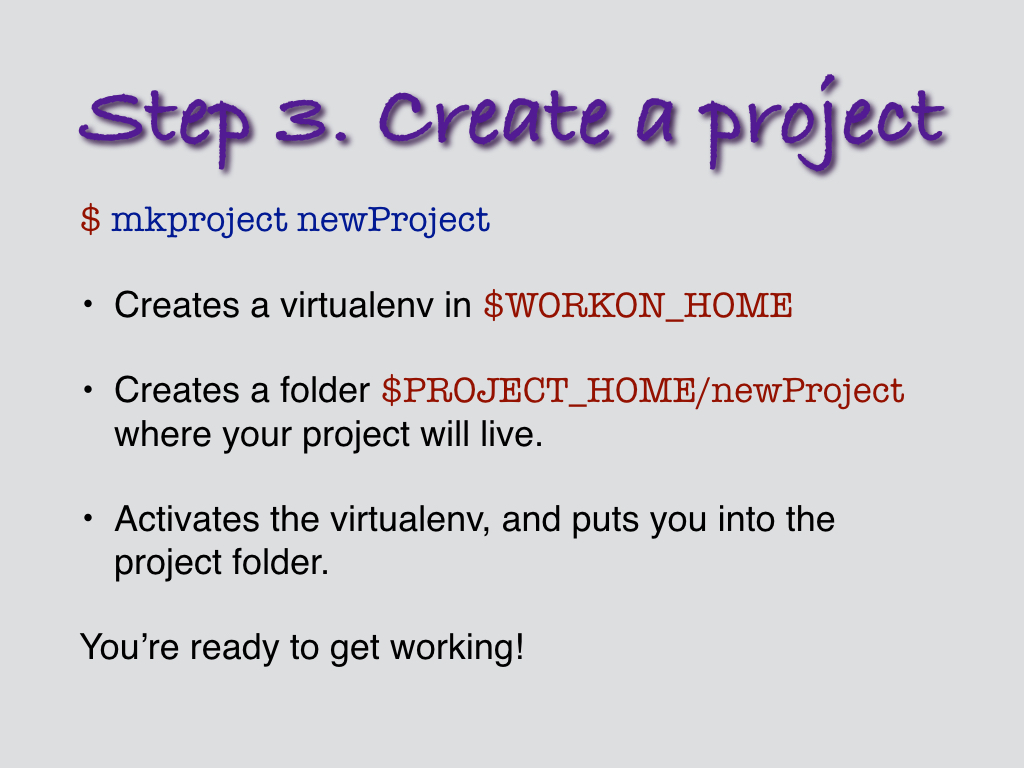
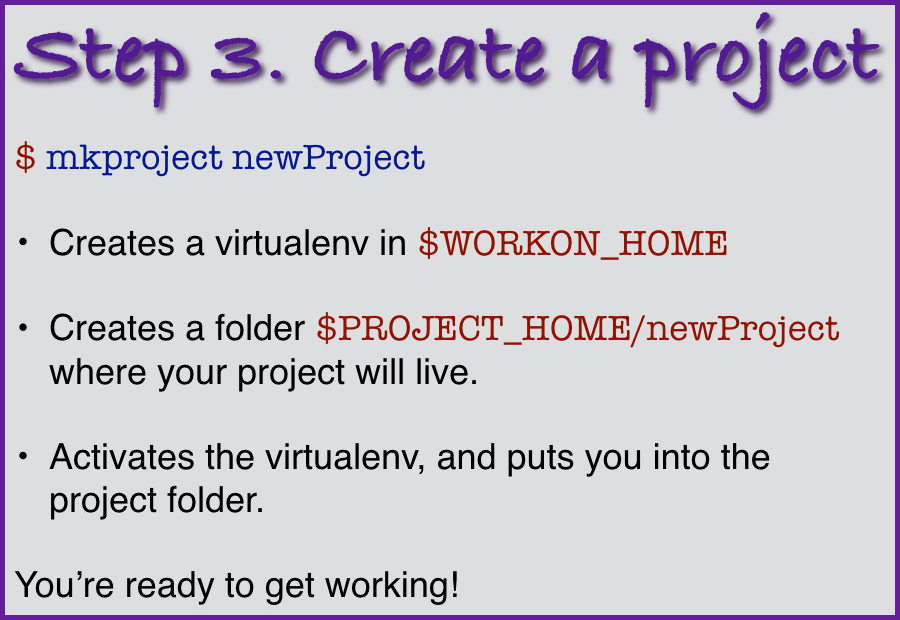
Improve virtualenvwrapper images.Mmake h3 bold

Changed region(s): [[0.0, 0.0, 1.0, 1.0]]

diff --git a/_sass/_base.scss b/_sass/_base.scss
@@ -90,7 +90,10 @@ h1 {
     font-weight: bold;
 }
 h2 {color: $green;}
-h3 {color: $dark-purple;}
+h3 {
+    color: $dark-purple;
+    font-weight: bold;
+}
 h4, h5, h6 {color: $blue;}
 
 /**
